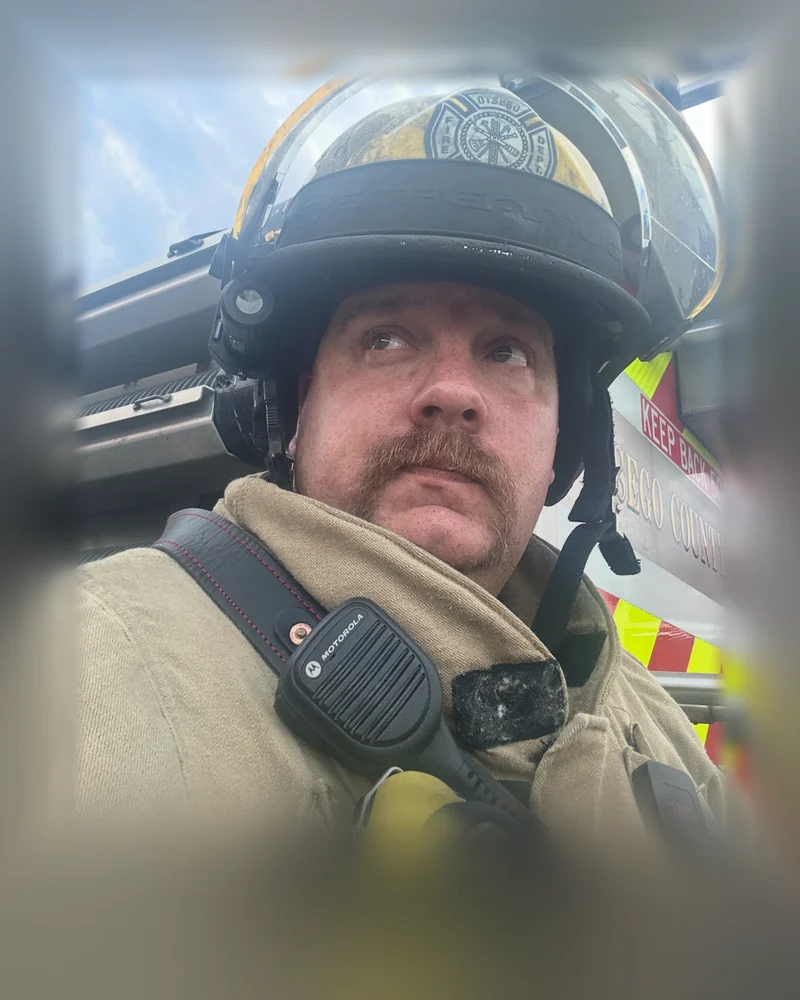
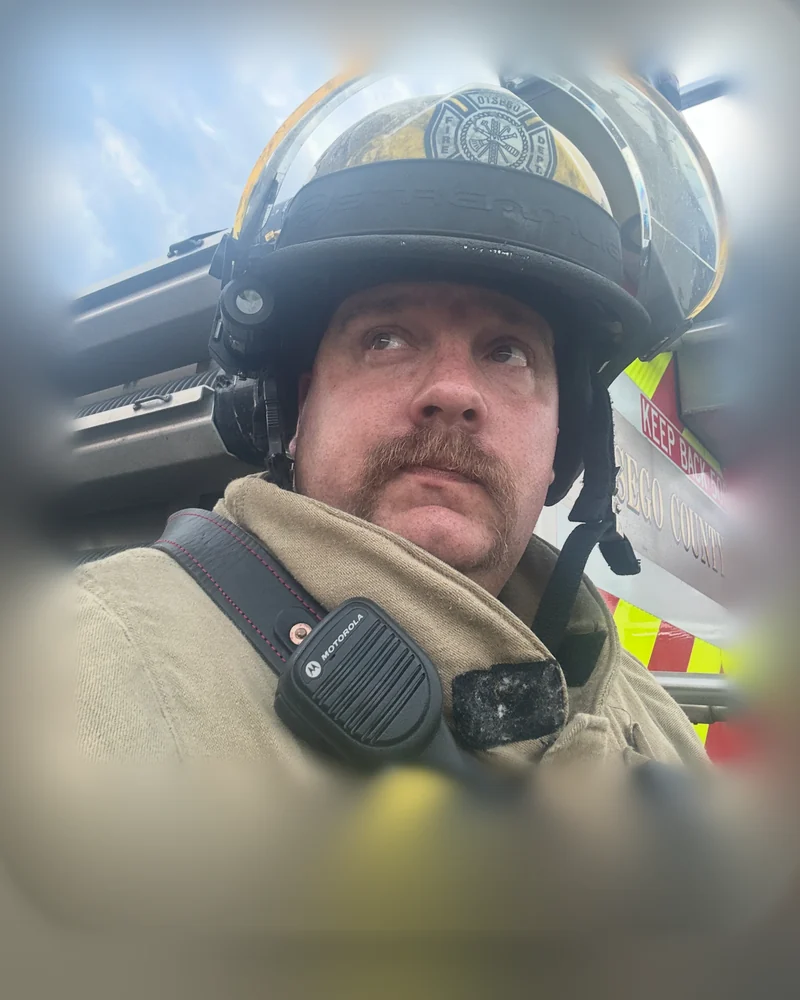
Board photos: continuous blur ramp instead of stacked halos
Blur radius and darkening now rise smoothly with distance from the photo edge, so the border no longer reads as stacked frames. Framing unchanged.

diff --git a/index.html b/index.html
@@ -303,9 +303,9 @@
     <div class="eyebrow">Leadership</div>
     <h2 class="section-heading">Board of <em>Directors</em></h2>
     <div class="board-grid">
-      <div class="board-card board-card--photo reveal"><div class="board-photo"><img src="images/board-libby.webp?v=11" alt="Libby Benjamin" width="800" height="1000" loading="lazy"></div><div class="board-info"><div class="board-name">Libby Benjamin</div><div class="board-role">President</div></div></div>
-      <div class="board-card board-card--photo reveal"><div class="board-photo"><img src="images/board-dan.webp?v=11" alt="Dan Rypkowski" width="800" height="1000" loading="lazy"></div><div class="board-info"><div class="board-name">Dan Rypkowski</div><div class="board-role">Vice President</div></div></div>
-      <div class="board-card board-card--photo reveal"><div class="board-photo"><img src="images/board-kenneth.webp?v=11" alt="Kenneth Gibson" width="800" height="1000" loading="lazy"></div><div class="board-info"><div class="board-name">Kenneth Gibson</div><div class="board-role">Secretary / Treasurer</div></div></div>
+      <div class="board-card board-card--photo reveal"><div class="board-photo"><img src="images/board-libby.webp?v=12" alt="Libby Benjamin" width="800" height="1000" loading="lazy"></div><div class="board-info"><div class="board-name">Libby Benjamin</div><div class="board-role">President</div></div></div>
+      <div class="board-card board-card--photo reveal"><div class="board-photo"><img src="images/board-dan.webp?v=12" alt="Dan Rypkowski" width="800" height="1000" loading="lazy"></div><div class="board-info"><div class="board-name">Dan Rypkowski</div><div class="board-role">Vice President</div></div></div>
+      <div class="board-card board-card--photo reveal"><div class="board-photo"><img src="images/board-kenneth.webp?v=12" alt="Kenneth Gibson" width="800" height="1000" loading="lazy"></div><div class="board-info"><div class="board-name">Kenneth Gibson</div><div class="board-role">Secretary / Treasurer</div></div></div>
     </div>
   </div>
 </section>
